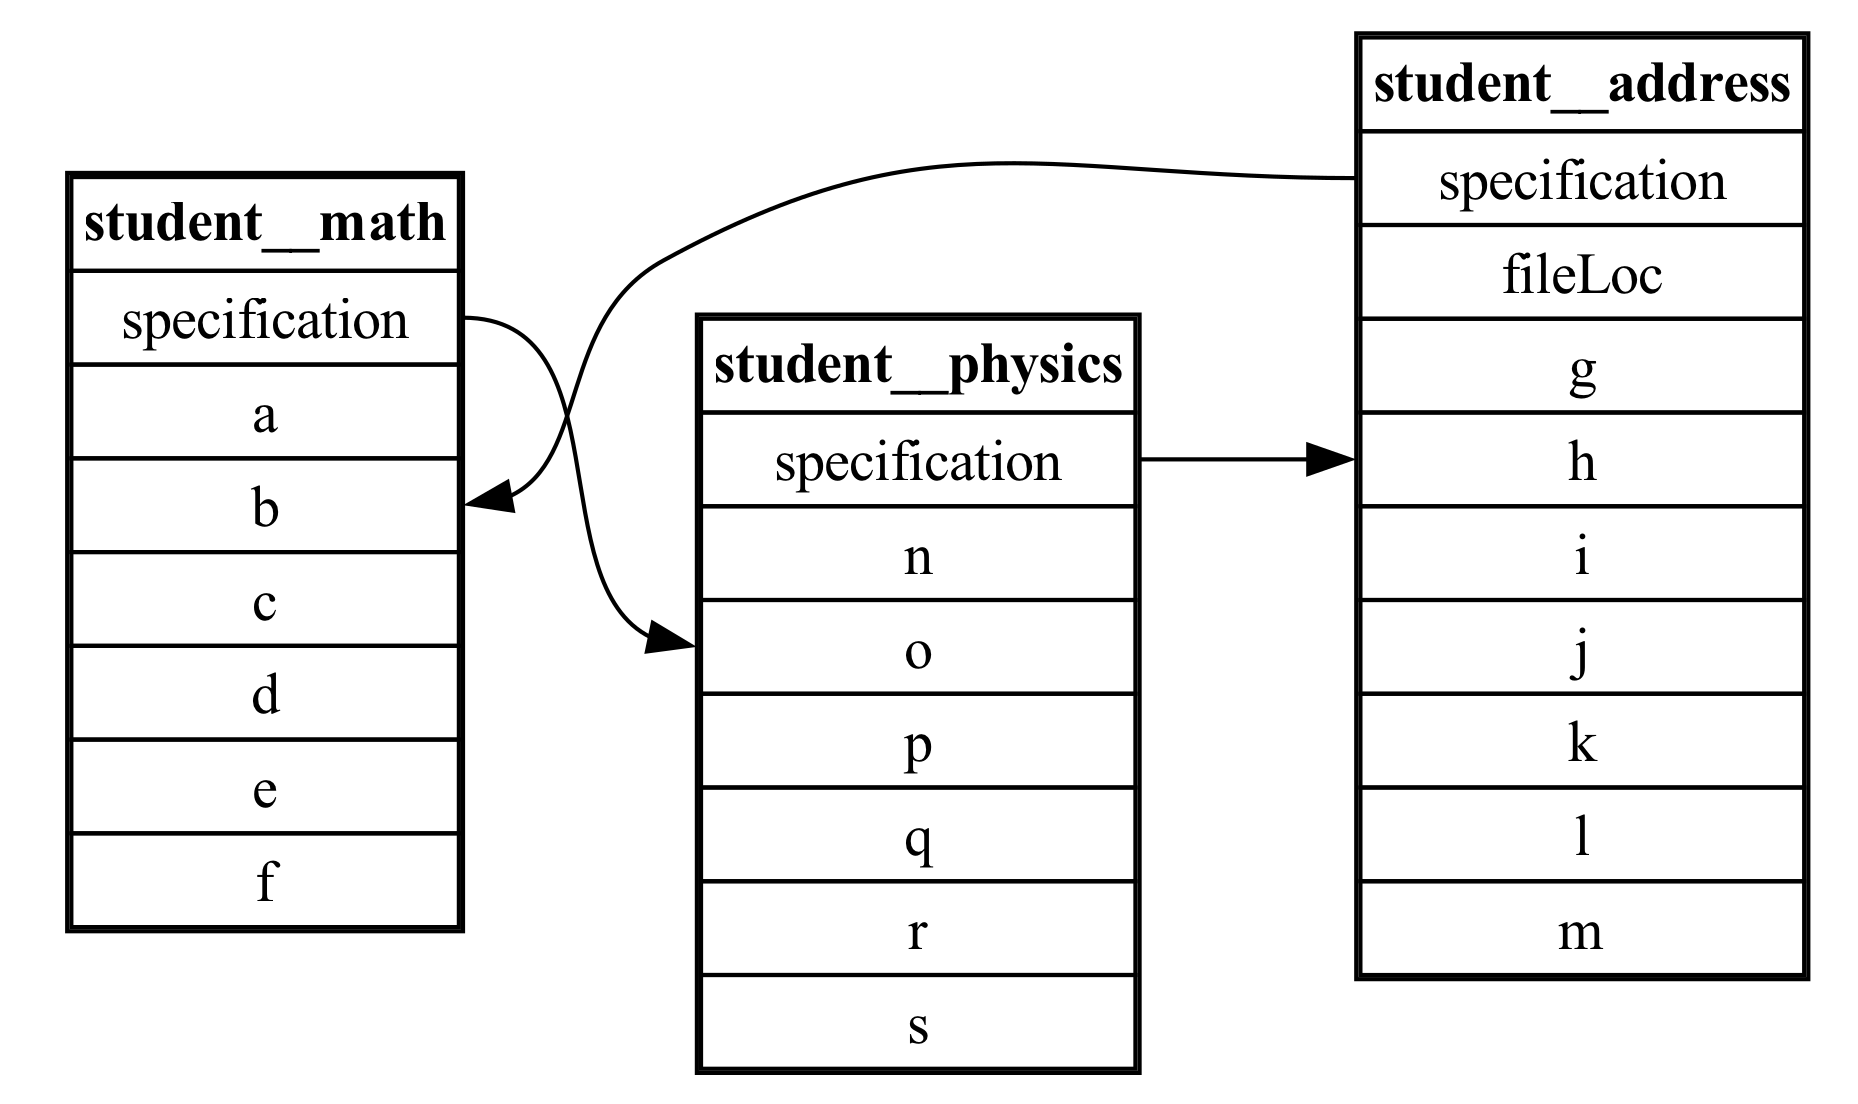
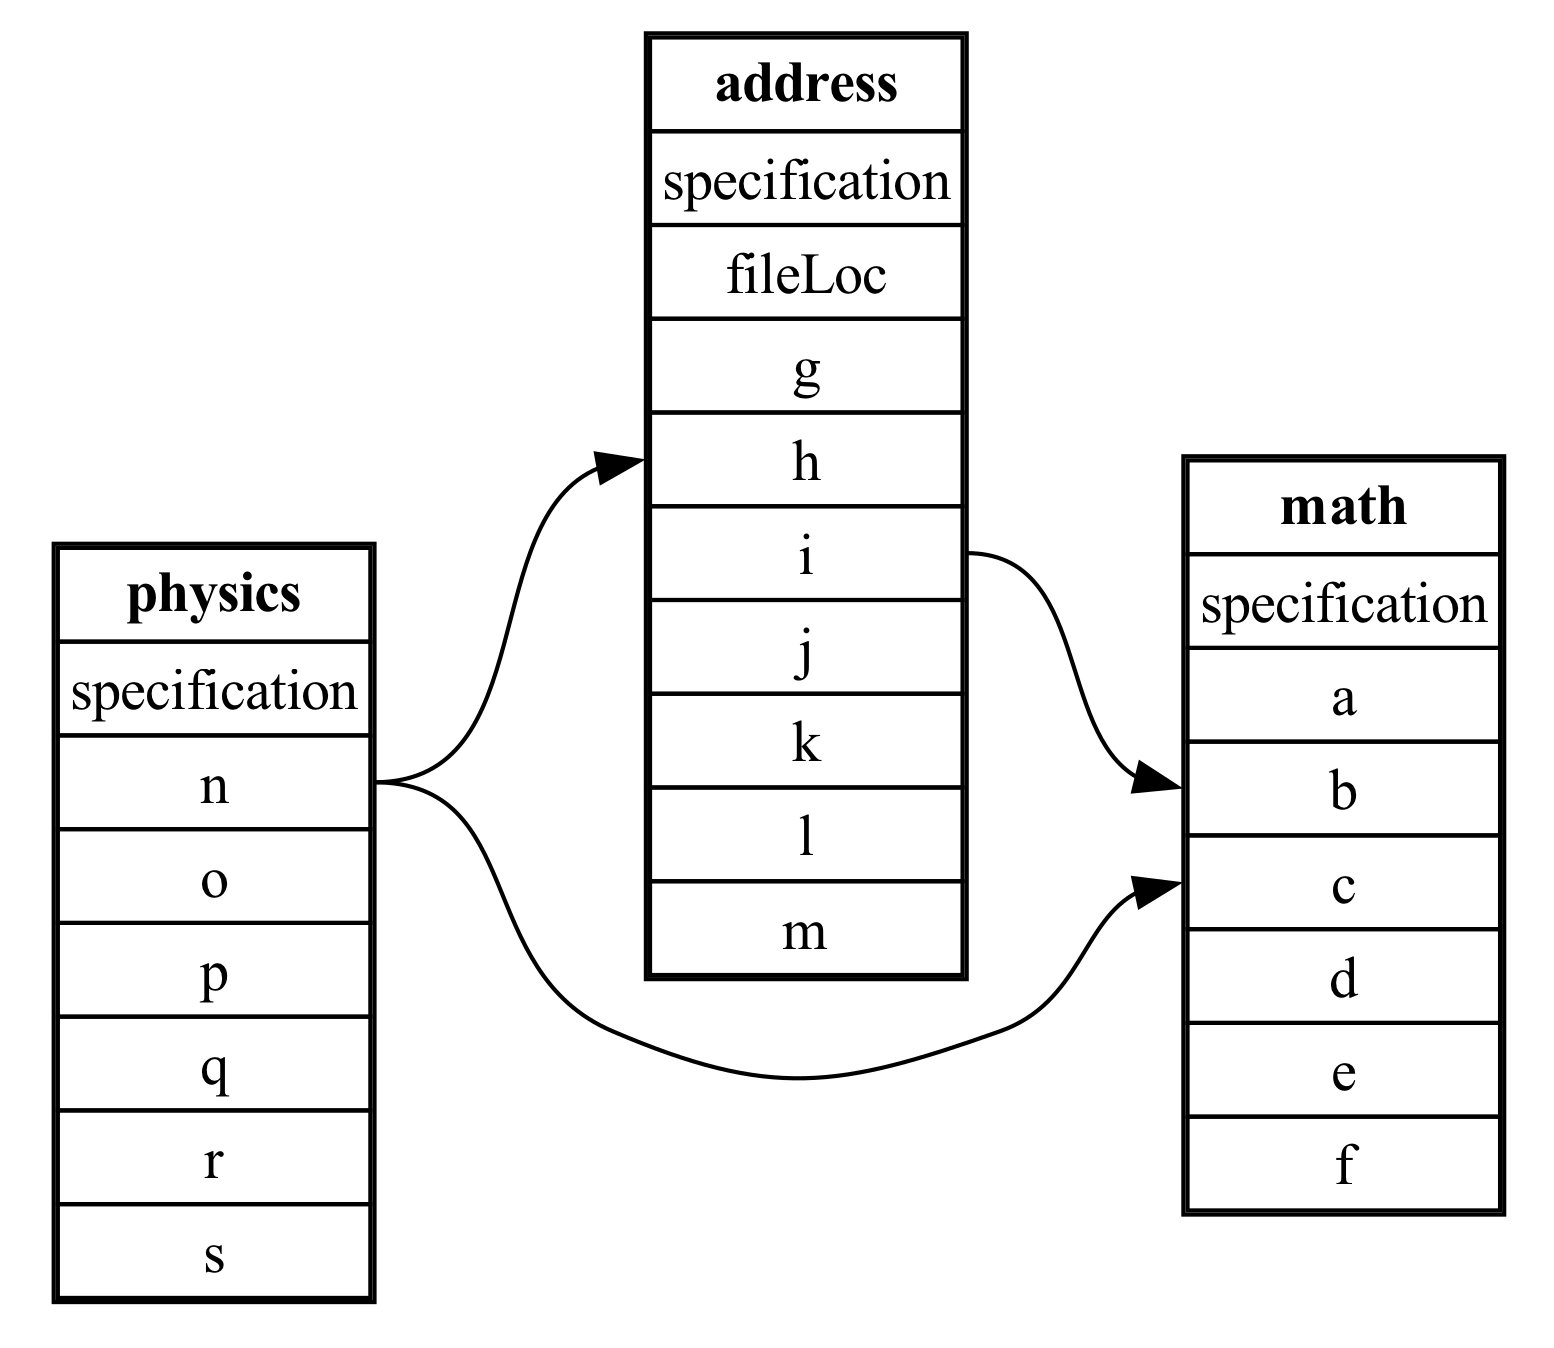
update docs with new schema example and cli output image

diff --git a/dsi/cli.py b/dsi/cli.py
@@ -82,13 +82,14 @@ class DSI_cli:
         print("load <filename> [-t table name]                   Loads this filename/url to a DSI database. optional")
         print("                                                      table name argument if input file is only one table")
         print("plot_table <table_name> [-f filename]             Plots a table's numerical data to an optional file name argument")
-        print("query <SQL query> [-n num rows] [-e filename]     Runs a query (in quotes), displays an optionl num rows")
-        print("                                                      , and exports output to a csv/parquet file")
+        print("query <SQL query> [-n num rows] [-e filename]     Runs a query (in quotes), displays an optionl num rows,")
+        print("                                                      and exports output to a csv/parquet file")
         print("save <filename>                                   Save the local database as <filename>, which will be the same type.")
         print("summary [-t table] [-n num_rows]                  Get a summary of the database or just a table and optionally ")
-        print("                                                     specify number of data rows to display\n")
+        print("                                                     specify number of data rows to display")
         print("ls                                                Lists all files in current directory or a specified path")
         print("cd <path>                                         Changes the working directory within the CLI environment")
+        print()
 
     def cd(self, args):
         '''
@@ -157,6 +158,7 @@ class DSI_cli:
             erd_name = args.filename
         
         self.export_table("dsi_erd_gen", erd_name)
+        print()
 
     def exit_cli(self, args):
         '''
@@ -358,6 +360,7 @@ class DSI_cli:
             filename = args.filename
         
         self.export_table("dsi_tb_" + table_name, filename)
+        print()
 
     def get_query_parser(self):
         parser = argparse.ArgumentParser(prog='display')
@@ -389,6 +392,7 @@ class DSI_cli:
                 filename = args.export
             self.t.active_metadata["temp_query"] = OrderedDict(data.to_dict(orient='list'))
             self.export_table("temp_query", filename)
+        print()
 
     def get_save_parser(self):
         parser = argparse.ArgumentParser(prog='save')
@@ -432,6 +436,7 @@ class DSI_cli:
         
         #self.a.summarize(table_name, num_rows)
         self.t.summary(table_name, num_rows)
+        print()
 
 
     def version(self):

diff --git a/examples/dev_core/schema.py b/examples/dev_core/schema.py
@@ -4,10 +4,10 @@ from dsi.core import Terminal
 terminal = Terminal(debug = 0, backup_db = False, runTable = True)
 
 # using schema to target a collection of tables which all have a prefix 'student'
-terminal.load_module('plugin', 'Schema', 'reader', filename="../data/example_schema.json", target_table_prefix = "student")
+terminal.load_module('plugin', 'Schema', 'reader', filename="../data/example_schema.json")
 
 #creates tables from this YAML data which all have a prefix of 'student'
-terminal.load_module('plugin', 'YAML1', 'reader', filenames=["../data/student_test1.yml", "../data/student_test2.yml"], target_table_prefix = "student")
+terminal.load_module('plugin', 'YAML1', 'reader', filenames=["../data/student_test1.yml", "../data/student_test2.yml"])
 
 terminal.load_module('backend','Sqlite','back-write', filename='data.db')
 

diff --git a/docs/examples_dev.rst b/docs/examples_dev.rst
@@ -134,8 +134,26 @@ If we consider a workflow where we read in a complex schema for YAML data and ge
 
 where ``examples/data/example_schema.json`` is:
 
-.. literalinclude:: ../examples/data/example_schema.json
+.. code-block:: json
 
+   {
+      "math": {
+         "primary_key": "specification",
+         "foreign_key": {
+               "b": ["address", "i"]
+         }
+      }, 
+      "address": {
+         "primary_key": "i",
+         "foreign_key": {
+               "h": ["physics", "n"]
+         }
+      }, 
+      "physics": {
+         "primary_key": "n"
+      }
+   }
+   
 the ER diagram looks like:
 
 ..  figure:: images/schema_erd.png
@@ -143,9 +161,10 @@ the ER diagram looks like:
     :align: center
 
     Entity Relationship Diagram of YAML data. 
-    Shows table relations between the student__math, student__address and student__physics tables, as well as the dsi_units table separately.
+    Shows table relations between the math, address and physics tables.
 
-NOTE: The schema JSON files do not need "comment" keys. They have only been included to better explain the connection of the tables and columns.
+NOTE: The schema JSON files do not need "comment" keys. 
+They have only been included to better explain the connection of the tables and columns.
 
 For futher clarity, each schema file must be structured as a dictionary where:
 
@@ -176,7 +195,7 @@ and a foreign key 'user_name' which points to another table 'Users' whose primar
       }
    }
 
-Based on this, if we edit ``examples/data/example_schema.json`` by adding a foreign key in 'physics' pointing to 'specification' in 'math':
+Based on this, we can update ``examples/data/example_schema.json`` by adding a foreign key in 'math' pointing to 'n' in 'physics':
 
 .. code-block:: json
 
@@ -184,20 +203,18 @@ Based on this, if we edit ``examples/data/example_schema.json`` by adding a fore
       "math": {
          "primary_key": "specification",
          "foreign_key": {
-            "b": ["address", "specification"]
+               "b": ["address", "i"],
+               "c": ["physics", "n"]
          }
       }, 
       "address": {
-         "primary_key": "specification",
+         "primary_key": "i",
          "foreign_key": {
-            "h": ["physics", "specification"]
+               "h": ["physics", "n"]
          }
       }, 
       "physics": {
-         "primary_key": "specification",
-         "foreign_key": {
-            "o": ["math", "specification"]
-         }
+         "primary_key": "n"
       }
    }
 
@@ -207,7 +224,7 @@ our new ER diagram is:
     :scale: 35%
     :align: center
    
-    ER Diagram of same YAML data. However, there is now an additional foreign key from student__physics to student__math's primary key
+    ER Diagram of same YAML data. However, there is now an additional foreign key from 'math' to 'physics'
 
 
 Jupyter Notebook

diff --git a/docs/cli_api.rst b/docs/cli_api.rst
@@ -3,7 +3,7 @@
 Command Line Interface API
 ==========================
 
-Users can interact with DSI Readers, Writers and Backends even easier using our own Command Line Interace (CLI).
+Users can interact with DSI Readers, Writers and Backends even easier using DSI's own Command Line Interace (CLI).
 While slightly more restrictive, the CLI allows users without any knowledge of Python to utilize DSI for their own needs.
 Users can store several files in one database, query/find/export data to other formats and save it in a database for further analysis.
 
@@ -49,4 +49,6 @@ Beyond this, users can expect basic unix commands such as clear.
 
 CLI Examples
 ------------
-The terminal outputs below display various ways users can utilize the CLI to simplify data science workflows.
+The terminal output below displays various ways users can utilize DSI's CLI to simplify data science workflows.
+
+.. literalinclude:: images/cli_output.txt
